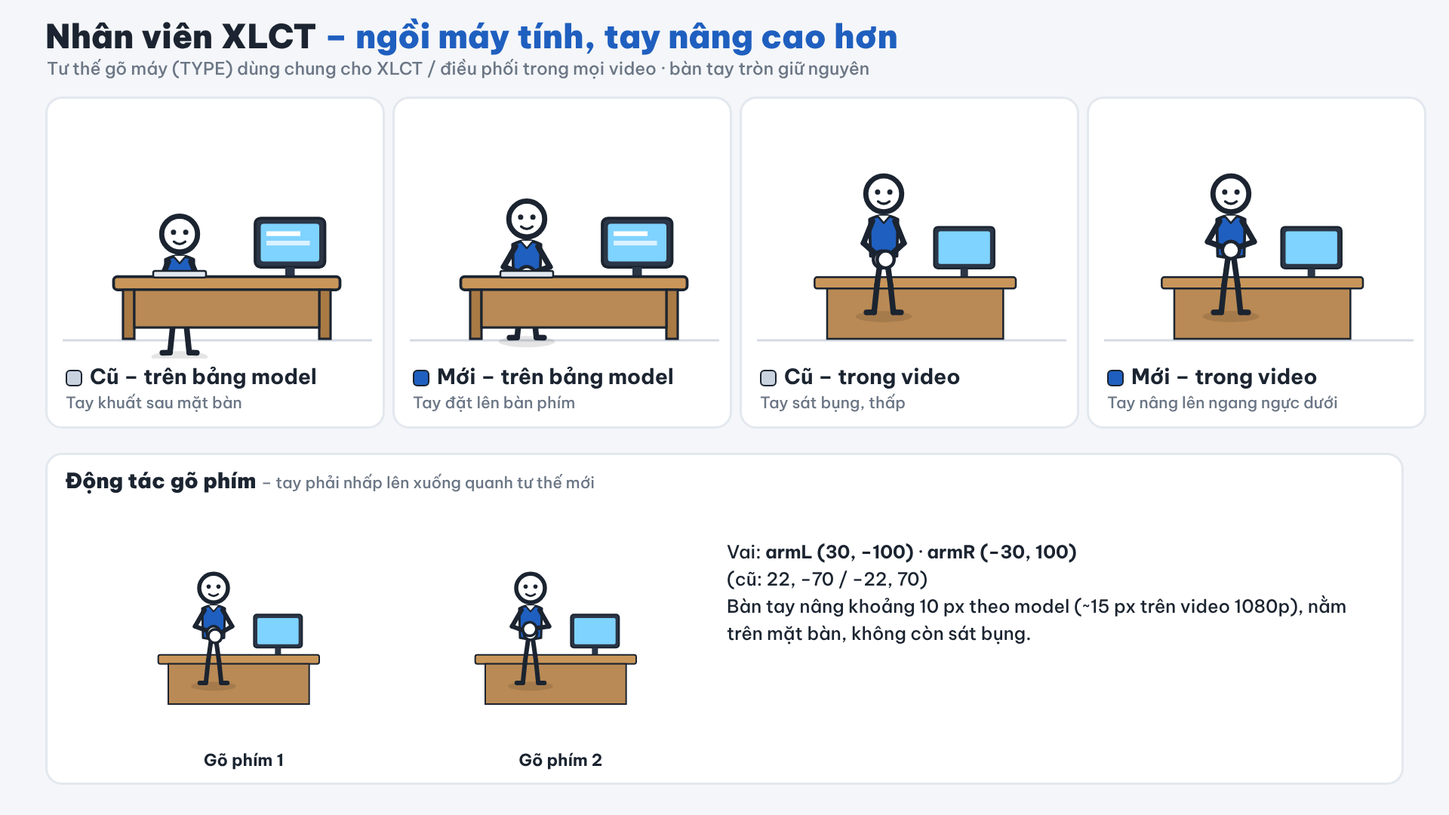
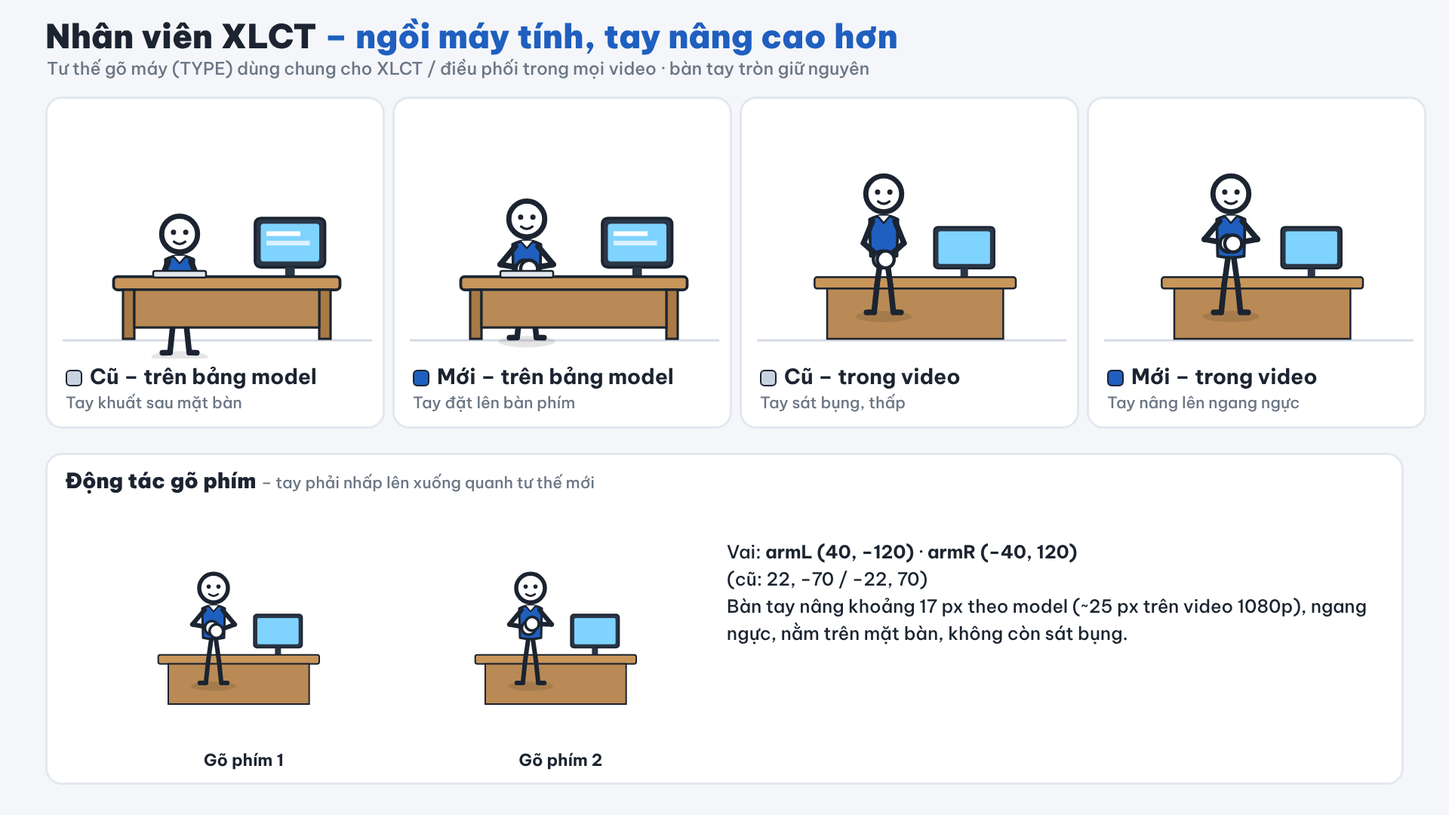
XLCT model: typing pose raised to chest height (option 3)
Claude-Session: https://claude.ai/code/session_0119jQ4nNmZ4Horfj6a4CaBv

diff --git a/design/model-xlct.html b/design/model-xlct.html
@@ -35,7 +35,7 @@ h1 span{color:#1F5FBF}
   <div class="cell" style="left:520px;top:128px;width:450px;height:440px">
     <svg width="450" height="344" viewBox="0 0 450 344">
       <line x1="20" y1="320" x2="430" y2="320" stroke="#D5DBE4" stroke-width="3"/>
-      <g transform="translate(175,318) scale(1.25)"><g transform="translate(0,0)"><g transform="scale(1.0)"><g id="n1-body"><ellipse cx="0" cy="3" rx="30" ry="6" fill="#000" opacity="0.10"/><g transform="translate(-3,-60)"><g id="n1-legL" transform="rotate(8)"><line x1="0" y1="0" x2="0" y2="30" stroke="#1B2430" stroke-width="6" stroke-linecap="round"/><g transform="translate(0,30)"><g id="n1-shinL" transform="rotate(-2)"><line x1="0" y1="0" x2="0" y2="29" stroke="#1B2430" stroke-width="6" stroke-linecap="round"/><line x1="0" y1="29" x2="-8" y2="30" stroke="#1B2430" stroke-width="6" stroke-linecap="round"/></g></g></g></g><g transform="translate(3,-60)"><g id="n1-legR" transform="rotate(-8)"><line x1="0" y1="0" x2="0" y2="30" stroke="#1B2430" stroke-width="6" stroke-linecap="round"/><g transform="translate(0,30)"><g id="n1-shinR" transform="rotate(2)"><line x1="0" y1="0" x2="0" y2="29" stroke="#1B2430" stroke-width="6" stroke-linecap="round"/><line x1="0" y1="29" x2="8" y2="30" stroke="#1B2430" stroke-width="6" stroke-linecap="round"/></g></g></g></g><path d="M-15,-100 Q0,-108 15,-100 L14,-61 Q0,-58 -14,-61 Z" fill="#1F5FBF" stroke="#1B2430" stroke-width="3" stroke-linejoin="round"/><path d="M-7,-104 L0,-96 L7,-104" fill="#fff" stroke="#1B2430" stroke-width="2" stroke-linejoin="round"/><g transform="translate(-12,-98)"><g id="n1-armL" transform="rotate(30)"><line x1="0" y1="0" x2="0" y2="25" stroke="#1B2430" stroke-width="6" stroke-linecap="round"/><g transform="translate(0,25)"><g id="n1-foreL" transform="rotate(-100)"><line x1="0" y1="0" x2="0" y2="23" stroke="#1B2430" stroke-width="6" stroke-linecap="round"/><circle cx="0" cy="26" r="9" fill="#fff" stroke="#1B2430" stroke-width="3.5"/></g></g></g></g><g transform="translate(12,-98)"><g id="n1-armR" transform="rotate(-30)"><line x1="0" y1="0" x2="0" y2="25" stroke="#1B2430" stroke-width="6" stroke-linecap="round"/><g transform="translate(0,25)"><g id="n1-foreR" transform="rotate(100)"><line x1="0" y1="0" x2="0" y2="23" stroke="#1B2430" stroke-width="6" stroke-linecap="round"/><circle cx="0" cy="26" r="9" fill="#fff" stroke="#1B2430" stroke-width="3.5"/></g></g></g></g><circle cx="0" cy="-127" r="19" fill="#fff" stroke="#1B2430" stroke-width="5.5"/><circle cx="-6.5" cy="-129" r="2.8" fill="#1B2430"/><circle cx="6.5" cy="-129" r="2.8" fill="#1B2430"/><path d="M-6,-119 Q0,-114 6,-119" fill="none" stroke="#1B2430" stroke-width="2.6" stroke-linecap="round"/></g></g></g><rect x="80" y="-128" width="74" height="52" rx="6" fill="#2B3646" stroke="#1B2430" stroke-width="3"/><rect x="86" y="-122" width="62" height="40" rx="3" fill="#7FD3FF"/><rect x="92" y="-114" width="36" height="5" fill="#fff"/><rect x="92" y="-104" width="46" height="5" fill="#fff" opacity="0.7"/><rect x="112" y="-76" width="10" height="12" fill="#2B3646"/><rect x="-70" y="-66" width="240" height="14" rx="4" fill="#C9965A" stroke="#1B2430" stroke-width="3"/><rect x="-60" y="-52" width="12" height="52" fill="#A97A44" stroke="#1B2430" stroke-width="2.5"/><rect x="148" y="-52" width="12" height="52" fill="#A97A44" stroke="#1B2430" stroke-width="2.5"/><rect x="-28" y="-72" width="56" height="7" rx="2" fill="#E3E8EF" stroke="#1B2430" stroke-width="2"/><rect x="-48" y="-52" width="196" height="40" fill="#B98A55" stroke="#1B2430" stroke-width="2.5"/></g>
+      <g transform="translate(175,318) scale(1.25)"><g transform="translate(0,0)"><g transform="scale(1.0)"><g id="n1-body"><ellipse cx="0" cy="3" rx="30" ry="6" fill="#000" opacity="0.10"/><g transform="translate(-3,-60)"><g id="n1-legL" transform="rotate(8)"><line x1="0" y1="0" x2="0" y2="30" stroke="#1B2430" stroke-width="6" stroke-linecap="round"/><g transform="translate(0,30)"><g id="n1-shinL" transform="rotate(-2)"><line x1="0" y1="0" x2="0" y2="29" stroke="#1B2430" stroke-width="6" stroke-linecap="round"/><line x1="0" y1="29" x2="-8" y2="30" stroke="#1B2430" stroke-width="6" stroke-linecap="round"/></g></g></g></g><g transform="translate(3,-60)"><g id="n1-legR" transform="rotate(-8)"><line x1="0" y1="0" x2="0" y2="30" stroke="#1B2430" stroke-width="6" stroke-linecap="round"/><g transform="translate(0,30)"><g id="n1-shinR" transform="rotate(2)"><line x1="0" y1="0" x2="0" y2="29" stroke="#1B2430" stroke-width="6" stroke-linecap="round"/><line x1="0" y1="29" x2="8" y2="30" stroke="#1B2430" stroke-width="6" stroke-linecap="round"/></g></g></g></g><path d="M-15,-100 Q0,-108 15,-100 L14,-61 Q0,-58 -14,-61 Z" fill="#1F5FBF" stroke="#1B2430" stroke-width="3" stroke-linejoin="round"/><path d="M-7,-104 L0,-96 L7,-104" fill="#fff" stroke="#1B2430" stroke-width="2" stroke-linejoin="round"/><g transform="translate(-12,-98)"><g id="n1-armL" transform="rotate(40)"><line x1="0" y1="0" x2="0" y2="25" stroke="#1B2430" stroke-width="6" stroke-linecap="round"/><g transform="translate(0,25)"><g id="n1-foreL" transform="rotate(-120)"><line x1="0" y1="0" x2="0" y2="23" stroke="#1B2430" stroke-width="6" stroke-linecap="round"/><circle cx="0" cy="26" r="9" fill="#fff" stroke="#1B2430" stroke-width="3.5"/></g></g></g></g><g transform="translate(12,-98)"><g id="n1-armR" transform="rotate(-40)"><line x1="0" y1="0" x2="0" y2="25" stroke="#1B2430" stroke-width="6" stroke-linecap="round"/><g transform="translate(0,25)"><g id="n1-foreR" transform="rotate(120)"><line x1="0" y1="0" x2="0" y2="23" stroke="#1B2430" stroke-width="6" stroke-linecap="round"/><circle cx="0" cy="26" r="9" fill="#fff" stroke="#1B2430" stroke-width="3.5"/></g></g></g></g><circle cx="0" cy="-127" r="19" fill="#fff" stroke="#1B2430" stroke-width="5.5"/><circle cx="-6.5" cy="-129" r="2.8" fill="#1B2430"/><circle cx="6.5" cy="-129" r="2.8" fill="#1B2430"/><path d="M-6,-119 Q0,-114 6,-119" fill="none" stroke="#1B2430" stroke-width="2.6" stroke-linecap="round"/></g></g></g><rect x="80" y="-128" width="74" height="52" rx="6" fill="#2B3646" stroke="#1B2430" stroke-width="3"/><rect x="86" y="-122" width="62" height="40" rx="3" fill="#7FD3FF"/><rect x="92" y="-114" width="36" height="5" fill="#fff"/><rect x="92" y="-104" width="46" height="5" fill="#fff" opacity="0.7"/><rect x="112" y="-76" width="10" height="12" fill="#2B3646"/><rect x="-70" y="-66" width="240" height="14" rx="4" fill="#C9965A" stroke="#1B2430" stroke-width="3"/><rect x="-60" y="-52" width="12" height="52" fill="#A97A44" stroke="#1B2430" stroke-width="2.5"/><rect x="148" y="-52" width="12" height="52" fill="#A97A44" stroke="#1B2430" stroke-width="2.5"/><rect x="-28" y="-72" width="56" height="7" rx="2" fill="#E3E8EF" stroke="#1B2430" stroke-width="2"/><rect x="-48" y="-52" width="196" height="40" fill="#B98A55" stroke="#1B2430" stroke-width="2.5"/></g>
     </svg>
     <div class="cap"><span class="chip" style="background:#1F5FBF"></span><b>Mới – trên bảng model</b><div class="note">Tay đặt lên bàn phím</div></div>
   </div>
@@ -49,10 +49,10 @@ h1 span{color:#1F5FBF}
   <div class="cell" style="left:1440px;top:128px;width:450px;height:440px">
     <svg width="450" height="344" viewBox="0 0 450 344">
       <line x1="20" y1="320" x2="430" y2="320" stroke="#D5DBE4" stroke-width="3"/>
-      <g transform="translate(188,318) scale(1.25)"><g transform="scale(0.6667)"><g transform="translate(0,0)"><rect x="80" y="-178" width="96" height="66" rx="6" fill="#2B3646" stroke="#1B2430" stroke-width="3"/><rect x="87" y="-171" width="82" height="52" rx="3" fill="#7FD3FF"/><rect x="122" y="-112" width="12" height="16" fill="#2B3646"/><rect x="-110" y="-98" width="320" height="18" rx="4" fill="#C9965A" stroke="#1B2430" stroke-width="3"/><rect x="-90" y="-80" width="280" height="80" fill="#B98A55" stroke="#1B2430" stroke-width="3"/></g><g transform="translate(0,-40)"><g transform="scale(1.5)"><g id="n2-body"><ellipse cx="0" cy="3" rx="30" ry="6" fill="#000" opacity="0.10"/><g transform="translate(-3,-60)"><g id="n2-legL" transform="rotate(8)"><line x1="0" y1="0" x2="0" y2="30" stroke="#1B2430" stroke-width="6" stroke-linecap="round"/><g transform="translate(0,30)"><g id="n2-shinL" transform="rotate(-2)"><line x1="0" y1="0" x2="0" y2="29" stroke="#1B2430" stroke-width="6" stroke-linecap="round"/><line x1="0" y1="29" x2="-8" y2="30" stroke="#1B2430" stroke-width="6" stroke-linecap="round"/></g></g></g></g><g transform="translate(3,-60)"><g id="n2-legR" transform="rotate(-8)"><line x1="0" y1="0" x2="0" y2="30" stroke="#1B2430" stroke-width="6" stroke-linecap="round"/><g transform="translate(0,30)"><g id="n2-shinR" transform="rotate(2)"><line x1="0" y1="0" x2="0" y2="29" stroke="#1B2430" stroke-width="6" stroke-linecap="round"/><line x1="0" y1="29" x2="8" y2="30" stroke="#1B2430" stroke-width="6" stroke-linecap="round"/></g></g></g></g><path d="M-15,-100 Q0,-108 15,-100 L14,-61 Q0,-58 -14,-61 Z" fill="#1F5FBF" stroke="#1B2430" stroke-width="3" stroke-linejoin="round"/><path d="M-7,-104 L0,-96 L7,-104" fill="#fff" stroke="#1B2430" stroke-width="2" stroke-linejoin="round"/><g transform="translate(-12,-98)"><g id="n2-armL" transform="rotate(30)"><line x1="0" y1="0" x2="0" y2="25" stroke="#1B2430" stroke-width="6" stroke-linecap="round"/><g transform="translate(0,25)"><g id="n2-foreL" transform="rotate(-100)"><line x1="0" y1="0" x2="0" y2="23" stroke="#1B2430" stroke-width="6" stroke-linecap="round"/><circle cx="0" cy="26" r="9" fill="#fff" stroke="#1B2430" stroke-width="3.5"/></g></g></g></g><g transform="translate(12,-98)"><g id="n2-armR" transform="rotate(-30)"><line x1="0" y1="0" x2="0" y2="25" stroke="#1B2430" stroke-width="6" stroke-linecap="round"/><g transform="translate(0,25)"><g id="n2-foreR" transform="rotate(100)"><line x1="0" y1="0" x2="0" y2="23" stroke="#1B2430" stroke-width="6" stroke-linecap="round"/><circle cx="0" cy="26" r="9" fill="#fff" stroke="#1B2430" stroke-width="3.5"/></g></g></g></g><circle cx="0" cy="-127" r="19" fill="#fff" stroke="#1B2430" stroke-width="5.5"/><circle cx="-6.5" cy="-129" r="2.8" fill="#1B2430"/><circle cx="6.5" cy="-129" r="2.8" fill="#1B2430"/><path d="M-6,-119 Q0,-114 6,-119" fill="none" stroke="#1B2430" stroke-width="2.6" stroke-linecap="round"/></g></g></g></g></g>
+      <g transform="translate(188,318) scale(1.25)"><g transform="scale(0.6667)"><g transform="translate(0,0)"><rect x="80" y="-178" width="96" height="66" rx="6" fill="#2B3646" stroke="#1B2430" stroke-width="3"/><rect x="87" y="-171" width="82" height="52" rx="3" fill="#7FD3FF"/><rect x="122" y="-112" width="12" height="16" fill="#2B3646"/><rect x="-110" y="-98" width="320" height="18" rx="4" fill="#C9965A" stroke="#1B2430" stroke-width="3"/><rect x="-90" y="-80" width="280" height="80" fill="#B98A55" stroke="#1B2430" stroke-width="3"/></g><g transform="translate(0,-40)"><g transform="scale(1.5)"><g id="n2-body"><ellipse cx="0" cy="3" rx="30" ry="6" fill="#000" opacity="0.10"/><g transform="translate(-3,-60)"><g id="n2-legL" transform="rotate(8)"><line x1="0" y1="0" x2="0" y2="30" stroke="#1B2430" stroke-width="6" stroke-linecap="round"/><g transform="translate(0,30)"><g id="n2-shinL" transform="rotate(-2)"><line x1="0" y1="0" x2="0" y2="29" stroke="#1B2430" stroke-width="6" stroke-linecap="round"/><line x1="0" y1="29" x2="-8" y2="30" stroke="#1B2430" stroke-width="6" stroke-linecap="round"/></g></g></g></g><g transform="translate(3,-60)"><g id="n2-legR" transform="rotate(-8)"><line x1="0" y1="0" x2="0" y2="30" stroke="#1B2430" stroke-width="6" stroke-linecap="round"/><g transform="translate(0,30)"><g id="n2-shinR" transform="rotate(2)"><line x1="0" y1="0" x2="0" y2="29" stroke="#1B2430" stroke-width="6" stroke-linecap="round"/><line x1="0" y1="29" x2="8" y2="30" stroke="#1B2430" stroke-width="6" stroke-linecap="round"/></g></g></g></g><path d="M-15,-100 Q0,-108 15,-100 L14,-61 Q0,-58 -14,-61 Z" fill="#1F5FBF" stroke="#1B2430" stroke-width="3" stroke-linejoin="round"/><path d="M-7,-104 L0,-96 L7,-104" fill="#fff" stroke="#1B2430" stroke-width="2" stroke-linejoin="round"/><g transform="translate(-12,-98)"><g id="n2-armL" transform="rotate(40)"><line x1="0" y1="0" x2="0" y2="25" stroke="#1B2430" stroke-width="6" stroke-linecap="round"/><g transform="translate(0,25)"><g id="n2-foreL" transform="rotate(-120)"><line x1="0" y1="0" x2="0" y2="23" stroke="#1B2430" stroke-width="6" stroke-linecap="round"/><circle cx="0" cy="26" r="9" fill="#fff" stroke="#1B2430" stroke-width="3.5"/></g></g></g></g><g transform="translate(12,-98)"><g id="n2-armR" transform="rotate(-40)"><line x1="0" y1="0" x2="0" y2="25" stroke="#1B2430" stroke-width="6" stroke-linecap="round"/><g transform="translate(0,25)"><g id="n2-foreR" transform="rotate(120)"><line x1="0" y1="0" x2="0" y2="23" stroke="#1B2430" stroke-width="6" stroke-linecap="round"/><circle cx="0" cy="26" r="9" fill="#fff" stroke="#1B2430" stroke-width="3.5"/></g></g></g></g><circle cx="0" cy="-127" r="19" fill="#fff" stroke="#1B2430" stroke-width="5.5"/><circle cx="-6.5" cy="-129" r="2.8" fill="#1B2430"/><circle cx="6.5" cy="-129" r="2.8" fill="#1B2430"/><path d="M-6,-119 Q0,-114 6,-119" fill="none" stroke="#1B2430" stroke-width="2.6" stroke-linecap="round"/></g></g></g></g></g>
     </svg>
-    <div class="cap"><span class="chip" style="background:#1F5FBF"></span><b>Mới – trong video</b><div class="note">Tay nâng lên ngang ngực dưới</div></div>
+    <div class="cap"><span class="chip" style="background:#1F5FBF"></span><b>Mới – trong video</b><div class="note">Tay nâng lên ngang ngực</div></div>
   </div>
-<div class="strip"><h2>Động tác gõ phím <small>– tay phải nhấp lên xuống quanh tư thế mới</small></h2><div class="row"><div class="lu" style="left:40px"><svg width="400" height="300" viewBox="-160 -230 400 260"><g transform="scale(0.6667)"><g transform="translate(0,0)"><rect x="80" y="-178" width="96" height="66" rx="6" fill="#2B3646" stroke="#1B2430" stroke-width="3"/><rect x="87" y="-171" width="82" height="52" rx="3" fill="#7FD3FF"/><rect x="122" y="-112" width="12" height="16" fill="#2B3646"/><rect x="-110" y="-98" width="320" height="18" rx="4" fill="#C9965A" stroke="#1B2430" stroke-width="3"/><rect x="-90" y="-80" width="280" height="80" fill="#B98A55" stroke="#1B2430" stroke-width="3"/></g><g transform="translate(0,-40)"><g transform="scale(1.5)"><g id="t0-body"><ellipse cx="0" cy="3" rx="30" ry="6" fill="#000" opacity="0.10"/><g transform="translate(-3,-60)"><g id="t0-legL" transform="rotate(8)"><line x1="0" y1="0" x2="0" y2="30" stroke="#1B2430" stroke-width="6" stroke-linecap="round"/><g transform="translate(0,30)"><g id="t0-shinL" transform="rotate(-2)"><line x1="0" y1="0" x2="0" y2="29" stroke="#1B2430" stroke-width="6" stroke-linecap="round"/><line x1="0" y1="29" x2="-8" y2="30" stroke="#1B2430" stroke-width="6" stroke-linecap="round"/></g></g></g></g><g transform="translate(3,-60)"><g id="t0-legR" transform="rotate(-8)"><line x1="0" y1="0" x2="0" y2="30" stroke="#1B2430" stroke-width="6" stroke-linecap="round"/><g transform="translate(0,30)"><g id="t0-shinR" transform="rotate(2)"><line x1="0" y1="0" x2="0" y2="29" stroke="#1B2430" stroke-width="6" stroke-linecap="round"/><line x1="0" y1="29" x2="8" y2="30" stroke="#1B2430" stroke-width="6" stroke-linecap="round"/></g></g></g></g><path d="M-15,-100 Q0,-108 15,-100 L14,-61 Q0,-58 -14,-61 Z" fill="#1F5FBF" stroke="#1B2430" stroke-width="3" stroke-linejoin="round"/><path d="M-7,-104 L0,-96 L7,-104" fill="#fff" stroke="#1B2430" stroke-width="2" stroke-linejoin="round"/><g transform="translate(-12,-98)"><g id="t0-armL" transform="rotate(30)"><line x1="0" y1="0" x2="0" y2="25" stroke="#1B2430" stroke-width="6" stroke-linecap="round"/><g transform="translate(0,25)"><g id="t0-foreL" transform="rotate(-100)"><line x1="0" y1="0" x2="0" y2="23" stroke="#1B2430" stroke-width="6" stroke-linecap="round"/><circle cx="0" cy="26" r="9" fill="#fff" stroke="#1B2430" stroke-width="3.5"/></g></g></g></g><g transform="translate(12,-98)"><g id="t0-armR" transform="rotate(-30)"><line x1="0" y1="0" x2="0" y2="25" stroke="#1B2430" stroke-width="6" stroke-linecap="round"/><g transform="translate(0,25)"><g id="t0-foreR" transform="rotate(90)"><line x1="0" y1="0" x2="0" y2="23" stroke="#1B2430" stroke-width="6" stroke-linecap="round"/><circle cx="0" cy="26" r="9" fill="#fff" stroke="#1B2430" stroke-width="3.5"/></g></g></g></g><circle cx="0" cy="-127" r="19" fill="#fff" stroke="#1B2430" stroke-width="5.5"/><circle cx="-6.5" cy="-129" r="2.8" fill="#1B2430"/><circle cx="6.5" cy="-129" r="2.8" fill="#1B2430"/><path d="M-6,-119 Q0,-114 6,-119" fill="none" stroke="#1B2430" stroke-width="2.6" stroke-linecap="round"/></g></g></g></g></svg><div class="ln">Gõ phím 1</div></div><div class="lu" style="left:460px"><svg width="400" height="300" viewBox="-160 -230 400 260"><g transform="scale(0.6667)"><g transform="translate(0,0)"><rect x="80" y="-178" width="96" height="66" rx="6" fill="#2B3646" stroke="#1B2430" stroke-width="3"/><rect x="87" y="-171" width="82" height="52" rx="3" fill="#7FD3FF"/><rect x="122" y="-112" width="12" height="16" fill="#2B3646"/><rect x="-110" y="-98" width="320" height="18" rx="4" fill="#C9965A" stroke="#1B2430" stroke-width="3"/><rect x="-90" y="-80" width="280" height="80" fill="#B98A55" stroke="#1B2430" stroke-width="3"/></g><g transform="translate(0,-40)"><g transform="scale(1.5)"><g id="t1-body"><ellipse cx="0" cy="3" rx="30" ry="6" fill="#000" opacity="0.10"/><g transform="translate(-3,-60)"><g id="t1-legL" transform="rotate(8)"><line x1="0" y1="0" x2="0" y2="30" stroke="#1B2430" stroke-width="6" stroke-linecap="round"/><g transform="translate(0,30)"><g id="t1-shinL" transform="rotate(-2)"><line x1="0" y1="0" x2="0" y2="29" stroke="#1B2430" stroke-width="6" stroke-linecap="round"/><line x1="0" y1="29" x2="-8" y2="30" stroke="#1B2430" stroke-width="6" stroke-linecap="round"/></g></g></g></g><g transform="translate(3,-60)"><g id="t1-legR" transform="rotate(-8)"><line x1="0" y1="0" x2="0" y2="30" stroke="#1B2430" stroke-width="6" stroke-linecap="round"/><g transform="translate(0,30)"><g id="t1-shinR" transform="rotate(2)"><line x1="0" y1="0" x2="0" y2="29" stroke="#1B2430" stroke-width="6" stroke-linecap="round"/><line x1="0" y1="29" x2="8" y2="30" stroke="#1B2430" stroke-width="6" stroke-linecap="round"/></g></g></g></g><path d="M-15,-100 Q0,-108 15,-100 L14,-61 Q0,-58 -14,-61 Z" fill="#1F5FBF" stroke="#1B2430" stroke-width="3" stroke-linejoin="round"/><path d="M-7,-104 L0,-96 L7,-104" fill="#fff" stroke="#1B2430" stroke-width="2" stroke-linejoin="round"/><g transform="translate(-12,-98)"><g id="t1-armL" transform="rotate(30)"><line x1="0" y1="0" x2="0" y2="25" stroke="#1B2430" stroke-width="6" stroke-linecap="round"/><g transform="translate(0,25)"><g id="t1-foreL" transform="rotate(-100)"><line x1="0" y1="0" x2="0" y2="23" stroke="#1B2430" stroke-width="6" stroke-linecap="round"/><circle cx="0" cy="26" r="9" fill="#fff" stroke="#1B2430" stroke-width="3.5"/></g></g></g></g><g transform="translate(12,-98)"><g id="t1-armR" transform="rotate(-30)"><line x1="0" y1="0" x2="0" y2="25" stroke="#1B2430" stroke-width="6" stroke-linecap="round"/><g transform="translate(0,25)"><g id="t1-foreR" transform="rotate(112)"><line x1="0" y1="0" x2="0" y2="23" stroke="#1B2430" stroke-width="6" stroke-linecap="round"/><circle cx="0" cy="26" r="9" fill="#fff" stroke="#1B2430" stroke-width="3.5"/></g></g></g></g><circle cx="0" cy="-127" r="19" fill="#fff" stroke="#1B2430" stroke-width="5.5"/><circle cx="-6.5" cy="-129" r="2.8" fill="#1B2430"/><circle cx="6.5" cy="-129" r="2.8" fill="#1B2430"/><path d="M-6,-119 Q0,-114 6,-119" fill="none" stroke="#1B2430" stroke-width="2.6" stroke-linecap="round"/></g></g></g></g></svg><div class="ln">Gõ phím 2</div></div></div>
-<div class="note2">Vai: <b>armL (30, −100)</b> · <b>armR (−30, 100)</b><br>(cũ: 22, −70 / −22, 70)<br>Bàn tay nâng khoảng 10 px theo model (~15 px trên video 1080p), nằm trên mặt bàn, không còn sát bụng.</div></div>
+<div class="strip"><h2>Động tác gõ phím <small>– tay phải nhấp lên xuống quanh tư thế mới</small></h2><div class="row"><div class="lu" style="left:40px"><svg width="400" height="300" viewBox="-160 -230 400 260"><g transform="scale(0.6667)"><g transform="translate(0,0)"><rect x="80" y="-178" width="96" height="66" rx="6" fill="#2B3646" stroke="#1B2430" stroke-width="3"/><rect x="87" y="-171" width="82" height="52" rx="3" fill="#7FD3FF"/><rect x="122" y="-112" width="12" height="16" fill="#2B3646"/><rect x="-110" y="-98" width="320" height="18" rx="4" fill="#C9965A" stroke="#1B2430" stroke-width="3"/><rect x="-90" y="-80" width="280" height="80" fill="#B98A55" stroke="#1B2430" stroke-width="3"/></g><g transform="translate(0,-40)"><g transform="scale(1.5)"><g id="t0-body"><ellipse cx="0" cy="3" rx="30" ry="6" fill="#000" opacity="0.10"/><g transform="translate(-3,-60)"><g id="t0-legL" transform="rotate(8)"><line x1="0" y1="0" x2="0" y2="30" stroke="#1B2430" stroke-width="6" stroke-linecap="round"/><g transform="translate(0,30)"><g id="t0-shinL" transform="rotate(-2)"><line x1="0" y1="0" x2="0" y2="29" stroke="#1B2430" stroke-width="6" stroke-linecap="round"/><line x1="0" y1="29" x2="-8" y2="30" stroke="#1B2430" stroke-width="6" stroke-linecap="round"/></g></g></g></g><g transform="translate(3,-60)"><g id="t0-legR" transform="rotate(-8)"><line x1="0" y1="0" x2="0" y2="30" stroke="#1B2430" stroke-width="6" stroke-linecap="round"/><g transform="translate(0,30)"><g id="t0-shinR" transform="rotate(2)"><line x1="0" y1="0" x2="0" y2="29" stroke="#1B2430" stroke-width="6" stroke-linecap="round"/><line x1="0" y1="29" x2="8" y2="30" stroke="#1B2430" stroke-width="6" stroke-linecap="round"/></g></g></g></g><path d="M-15,-100 Q0,-108 15,-100 L14,-61 Q0,-58 -14,-61 Z" fill="#1F5FBF" stroke="#1B2430" stroke-width="3" stroke-linejoin="round"/><path d="M-7,-104 L0,-96 L7,-104" fill="#fff" stroke="#1B2430" stroke-width="2" stroke-linejoin="round"/><g transform="translate(-12,-98)"><g id="t0-armL" transform="rotate(40)"><line x1="0" y1="0" x2="0" y2="25" stroke="#1B2430" stroke-width="6" stroke-linecap="round"/><g transform="translate(0,25)"><g id="t0-foreL" transform="rotate(-120)"><line x1="0" y1="0" x2="0" y2="23" stroke="#1B2430" stroke-width="6" stroke-linecap="round"/><circle cx="0" cy="26" r="9" fill="#fff" stroke="#1B2430" stroke-width="3.5"/></g></g></g></g><g transform="translate(12,-98)"><g id="t0-armR" transform="rotate(-40)"><line x1="0" y1="0" x2="0" y2="25" stroke="#1B2430" stroke-width="6" stroke-linecap="round"/><g transform="translate(0,25)"><g id="t0-foreR" transform="rotate(110)"><line x1="0" y1="0" x2="0" y2="23" stroke="#1B2430" stroke-width="6" stroke-linecap="round"/><circle cx="0" cy="26" r="9" fill="#fff" stroke="#1B2430" stroke-width="3.5"/></g></g></g></g><circle cx="0" cy="-127" r="19" fill="#fff" stroke="#1B2430" stroke-width="5.5"/><circle cx="-6.5" cy="-129" r="2.8" fill="#1B2430"/><circle cx="6.5" cy="-129" r="2.8" fill="#1B2430"/><path d="M-6,-119 Q0,-114 6,-119" fill="none" stroke="#1B2430" stroke-width="2.6" stroke-linecap="round"/></g></g></g></g></svg><div class="ln">Gõ phím 1</div></div><div class="lu" style="left:460px"><svg width="400" height="300" viewBox="-160 -230 400 260"><g transform="scale(0.6667)"><g transform="translate(0,0)"><rect x="80" y="-178" width="96" height="66" rx="6" fill="#2B3646" stroke="#1B2430" stroke-width="3"/><rect x="87" y="-171" width="82" height="52" rx="3" fill="#7FD3FF"/><rect x="122" y="-112" width="12" height="16" fill="#2B3646"/><rect x="-110" y="-98" width="320" height="18" rx="4" fill="#C9965A" stroke="#1B2430" stroke-width="3"/><rect x="-90" y="-80" width="280" height="80" fill="#B98A55" stroke="#1B2430" stroke-width="3"/></g><g transform="translate(0,-40)"><g transform="scale(1.5)"><g id="t1-body"><ellipse cx="0" cy="3" rx="30" ry="6" fill="#000" opacity="0.10"/><g transform="translate(-3,-60)"><g id="t1-legL" transform="rotate(8)"><line x1="0" y1="0" x2="0" y2="30" stroke="#1B2430" stroke-width="6" stroke-linecap="round"/><g transform="translate(0,30)"><g id="t1-shinL" transform="rotate(-2)"><line x1="0" y1="0" x2="0" y2="29" stroke="#1B2430" stroke-width="6" stroke-linecap="round"/><line x1="0" y1="29" x2="-8" y2="30" stroke="#1B2430" stroke-width="6" stroke-linecap="round"/></g></g></g></g><g transform="translate(3,-60)"><g id="t1-legR" transform="rotate(-8)"><line x1="0" y1="0" x2="0" y2="30" stroke="#1B2430" stroke-width="6" stroke-linecap="round"/><g transform="translate(0,30)"><g id="t1-shinR" transform="rotate(2)"><line x1="0" y1="0" x2="0" y2="29" stroke="#1B2430" stroke-width="6" stroke-linecap="round"/><line x1="0" y1="29" x2="8" y2="30" stroke="#1B2430" stroke-width="6" stroke-linecap="round"/></g></g></g></g><path d="M-15,-100 Q0,-108 15,-100 L14,-61 Q0,-58 -14,-61 Z" fill="#1F5FBF" stroke="#1B2430" stroke-width="3" stroke-linejoin="round"/><path d="M-7,-104 L0,-96 L7,-104" fill="#fff" stroke="#1B2430" stroke-width="2" stroke-linejoin="round"/><g transform="translate(-12,-98)"><g id="t1-armL" transform="rotate(40)"><line x1="0" y1="0" x2="0" y2="25" stroke="#1B2430" stroke-width="6" stroke-linecap="round"/><g transform="translate(0,25)"><g id="t1-foreL" transform="rotate(-120)"><line x1="0" y1="0" x2="0" y2="23" stroke="#1B2430" stroke-width="6" stroke-linecap="round"/><circle cx="0" cy="26" r="9" fill="#fff" stroke="#1B2430" stroke-width="3.5"/></g></g></g></g><g transform="translate(12,-98)"><g id="t1-armR" transform="rotate(-40)"><line x1="0" y1="0" x2="0" y2="25" stroke="#1B2430" stroke-width="6" stroke-linecap="round"/><g transform="translate(0,25)"><g id="t1-foreR" transform="rotate(132)"><line x1="0" y1="0" x2="0" y2="23" stroke="#1B2430" stroke-width="6" stroke-linecap="round"/><circle cx="0" cy="26" r="9" fill="#fff" stroke="#1B2430" stroke-width="3.5"/></g></g></g></g><circle cx="0" cy="-127" r="19" fill="#fff" stroke="#1B2430" stroke-width="5.5"/><circle cx="-6.5" cy="-129" r="2.8" fill="#1B2430"/><circle cx="6.5" cy="-129" r="2.8" fill="#1B2430"/><path d="M-6,-119 Q0,-114 6,-119" fill="none" stroke="#1B2430" stroke-width="2.6" stroke-linecap="round"/></g></g></g></g></svg><div class="ln">Gõ phím 2</div></div></div>
+<div class="note2">Vai: <b>armL (40, −120)</b> · <b>armR (−40, 120)</b><br>(cũ: 22, −70 / −22, 70)<br>Bàn tay nâng khoảng 17 px theo model (~25 px trên video 1080p), ngang ngực, nằm trên mặt bàn, không còn sát bụng.</div></div>
 </body></html>

diff --git a/design/model-quan-ly.html b/design/model-quan-ly.html
@@ -41,7 +41,7 @@ h1 span{color:#16478F}
   <div class="cell" style="left:980px;top:128px;width:450px;height:440px">
     <svg width="450" height="344" viewBox="0 0 450 344">
       <line x1="20" y1="320" x2="430" y2="320" stroke="#D5DBE4" stroke-width="3"/>
-      <g transform="translate(175,318) scale(1.25)"><g transform="scale(1.0)"><g id="q3-body"><ellipse cx="0" cy="3" rx="30" ry="6" fill="#000" opacity="0.10"/><g transform="translate(-3,-60)"><g id="q3-legL" transform="rotate(8)"><line x1="0" y1="0" x2="0" y2="30" stroke="#1B2430" stroke-width="6" stroke-linecap="round"/><g transform="translate(0,30)"><g id="q3-shinL" transform="rotate(-2)"><line x1="0" y1="0" x2="0" y2="29" stroke="#1B2430" stroke-width="6" stroke-linecap="round"/><line x1="0" y1="29" x2="-8" y2="30" stroke="#1B2430" stroke-width="6" stroke-linecap="round"/></g></g></g></g><g transform="translate(3,-60)"><g id="q3-legR" transform="rotate(-8)"><line x1="0" y1="0" x2="0" y2="30" stroke="#1B2430" stroke-width="6" stroke-linecap="round"/><g transform="translate(0,30)"><g id="q3-shinR" transform="rotate(2)"><line x1="0" y1="0" x2="0" y2="29" stroke="#1B2430" stroke-width="6" stroke-linecap="round"/><line x1="0" y1="29" x2="8" y2="30" stroke="#1B2430" stroke-width="6" stroke-linecap="round"/></g></g></g></g><path d="M-15,-100 Q0,-108 15,-100 L14,-61 Q0,-58 -14,-61 Z" fill="#FFFFFF" stroke="#1B2430" stroke-width="3" stroke-linejoin="round"/><path d="M-7,-104 L0,-96 L7,-104" fill="#fff" stroke="#1B2430" stroke-width="2" stroke-linejoin="round"/><path d="M0,-102 L-4.5,-97 L-2.5,-74 L0,-69 L2.5,-74 L4.5,-97 Z" fill="#16478F" stroke="#1B2430" stroke-width="1.5"/><path d="M-8,-103 L-10,-86 M8,-103 L10,-86" stroke="#16478F" stroke-width="2.2" fill="none"/><rect x="-14" y="-87" width="9" height="12" rx="1.5" fill="#16478F" stroke="#1B2430" stroke-width="1.5"/><rect x="-12.3" y="-84" width="5.6" height="2.4" fill="#fff"/><g transform="translate(-12,-98)"><g id="q3-armL" transform="rotate(30)"><line x1="0" y1="0" x2="0" y2="25" stroke="#1B2430" stroke-width="6" stroke-linecap="round"/><g transform="translate(0,25)"><g id="q3-foreL" transform="rotate(-100)"><line x1="0" y1="0" x2="0" y2="23" stroke="#1B2430" stroke-width="6" stroke-linecap="round"/><circle cx="0" cy="26" r="9" fill="#fff" stroke="#1B2430" stroke-width="3.5"/></g></g></g></g><g transform="translate(12,-98)"><g id="q3-armR" transform="rotate(-30)"><line x1="0" y1="0" x2="0" y2="25" stroke="#1B2430" stroke-width="6" stroke-linecap="round"/><g transform="translate(0,25)"><g id="q3-foreR" transform="rotate(100)"><line x1="0" y1="0" x2="0" y2="23" stroke="#1B2430" stroke-width="6" stroke-linecap="round"/><circle cx="0" cy="26" r="9" fill="#fff" stroke="#1B2430" stroke-width="3.5"/></g></g></g></g><circle cx="0" cy="-127" r="19" fill="#fff" stroke="#1B2430" stroke-width="5.5"/><circle cx="-6.5" cy="-129" r="2.8" fill="#1B2430"/><circle cx="6.5" cy="-129" r="2.8" fill="#1B2430"/><path d="M-6,-119 Q0,-114 6,-119" fill="none" stroke="#1B2430" stroke-width="2.6" stroke-linecap="round"/><path d="M-19,-133 Q-19,-152 0,-153 Q19,-152 19,-133 Z" fill="#FFFFFF" stroke="#1B2430" stroke-width="3" stroke-linejoin="round"/><path d="M-2,-152 L-2,-134 M2,-152 L2,-134" stroke="#1B2430" stroke-width="1.5" opacity="0.35"/><line x1="-24" y1="-133" x2="24" y2="-133" stroke="#1B2430" stroke-width="5" stroke-linecap="round"/></g></g><rect x="80" y="-128" width="74" height="52" rx="6" fill="#2B3646" stroke="#1B2430" stroke-width="3"/><rect x="86" y="-122" width="62" height="40" rx="3" fill="#7FD3FF"/><rect x="92" y="-114" width="36" height="5" fill="#fff"/><rect x="92" y="-104" width="46" height="5" fill="#fff" opacity="0.7"/><rect x="112" y="-76" width="10" height="12" fill="#2B3646"/><rect x="-70" y="-66" width="240" height="14" rx="4" fill="#C9965A" stroke="#1B2430" stroke-width="3"/><rect x="-60" y="-52" width="12" height="52" fill="#A97A44" stroke="#1B2430" stroke-width="2.5"/><rect x="148" y="-52" width="12" height="52" fill="#A97A44" stroke="#1B2430" stroke-width="2.5"/><rect x="-28" y="-72" width="56" height="7" rx="2" fill="#E3E8EF" stroke="#1B2430" stroke-width="2"/><rect x="-48" y="-52" width="196" height="40" fill="#B98A55" stroke="#1B2430" stroke-width="2.5"/><rect x="86" y="-122" width="62" height="40" rx="3" fill="#fff"/><text x="117" y="-111" text-anchor="middle" font-family="'Be Vietnam Pro'" font-weight="900" font-size="8" fill="#1B2430">THIẾU / THỪA</text><rect x="92" y="-105" width="22" height="6" fill="#D93B3B"/><rect x="118" y="-105" width="24" height="6" fill="#E3E8EF"/><rect x="92" y="-96" width="22" height="6" fill="#F28C1E"/><rect x="118" y="-96" width="24" height="6" fill="#E3E8EF"/></g>
+      <g transform="translate(175,318) scale(1.25)"><g transform="scale(1.0)"><g id="q3-body"><ellipse cx="0" cy="3" rx="30" ry="6" fill="#000" opacity="0.10"/><g transform="translate(-3,-60)"><g id="q3-legL" transform="rotate(8)"><line x1="0" y1="0" x2="0" y2="30" stroke="#1B2430" stroke-width="6" stroke-linecap="round"/><g transform="translate(0,30)"><g id="q3-shinL" transform="rotate(-2)"><line x1="0" y1="0" x2="0" y2="29" stroke="#1B2430" stroke-width="6" stroke-linecap="round"/><line x1="0" y1="29" x2="-8" y2="30" stroke="#1B2430" stroke-width="6" stroke-linecap="round"/></g></g></g></g><g transform="translate(3,-60)"><g id="q3-legR" transform="rotate(-8)"><line x1="0" y1="0" x2="0" y2="30" stroke="#1B2430" stroke-width="6" stroke-linecap="round"/><g transform="translate(0,30)"><g id="q3-shinR" transform="rotate(2)"><line x1="0" y1="0" x2="0" y2="29" stroke="#1B2430" stroke-width="6" stroke-linecap="round"/><line x1="0" y1="29" x2="8" y2="30" stroke="#1B2430" stroke-width="6" stroke-linecap="round"/></g></g></g></g><path d="M-15,-100 Q0,-108 15,-100 L14,-61 Q0,-58 -14,-61 Z" fill="#FFFFFF" stroke="#1B2430" stroke-width="3" stroke-linejoin="round"/><path d="M-7,-104 L0,-96 L7,-104" fill="#fff" stroke="#1B2430" stroke-width="2" stroke-linejoin="round"/><path d="M0,-102 L-4.5,-97 L-2.5,-74 L0,-69 L2.5,-74 L4.5,-97 Z" fill="#16478F" stroke="#1B2430" stroke-width="1.5"/><path d="M-8,-103 L-10,-86 M8,-103 L10,-86" stroke="#16478F" stroke-width="2.2" fill="none"/><rect x="-14" y="-87" width="9" height="12" rx="1.5" fill="#16478F" stroke="#1B2430" stroke-width="1.5"/><rect x="-12.3" y="-84" width="5.6" height="2.4" fill="#fff"/><g transform="translate(-12,-98)"><g id="q3-armL" transform="rotate(40)"><line x1="0" y1="0" x2="0" y2="25" stroke="#1B2430" stroke-width="6" stroke-linecap="round"/><g transform="translate(0,25)"><g id="q3-foreL" transform="rotate(-120)"><line x1="0" y1="0" x2="0" y2="23" stroke="#1B2430" stroke-width="6" stroke-linecap="round"/><circle cx="0" cy="26" r="9" fill="#fff" stroke="#1B2430" stroke-width="3.5"/></g></g></g></g><g transform="translate(12,-98)"><g id="q3-armR" transform="rotate(-40)"><line x1="0" y1="0" x2="0" y2="25" stroke="#1B2430" stroke-width="6" stroke-linecap="round"/><g transform="translate(0,25)"><g id="q3-foreR" transform="rotate(120)"><line x1="0" y1="0" x2="0" y2="23" stroke="#1B2430" stroke-width="6" stroke-linecap="round"/><circle cx="0" cy="26" r="9" fill="#fff" stroke="#1B2430" stroke-width="3.5"/></g></g></g></g><circle cx="0" cy="-127" r="19" fill="#fff" stroke="#1B2430" stroke-width="5.5"/><circle cx="-6.5" cy="-129" r="2.8" fill="#1B2430"/><circle cx="6.5" cy="-129" r="2.8" fill="#1B2430"/><path d="M-6,-119 Q0,-114 6,-119" fill="none" stroke="#1B2430" stroke-width="2.6" stroke-linecap="round"/><path d="M-19,-133 Q-19,-152 0,-153 Q19,-152 19,-133 Z" fill="#FFFFFF" stroke="#1B2430" stroke-width="3" stroke-linejoin="round"/><path d="M-2,-152 L-2,-134 M2,-152 L2,-134" stroke="#1B2430" stroke-width="1.5" opacity="0.35"/><line x1="-24" y1="-133" x2="24" y2="-133" stroke="#1B2430" stroke-width="5" stroke-linecap="round"/></g></g><rect x="80" y="-128" width="74" height="52" rx="6" fill="#2B3646" stroke="#1B2430" stroke-width="3"/><rect x="86" y="-122" width="62" height="40" rx="3" fill="#7FD3FF"/><rect x="92" y="-114" width="36" height="5" fill="#fff"/><rect x="92" y="-104" width="46" height="5" fill="#fff" opacity="0.7"/><rect x="112" y="-76" width="10" height="12" fill="#2B3646"/><rect x="-70" y="-66" width="240" height="14" rx="4" fill="#C9965A" stroke="#1B2430" stroke-width="3"/><rect x="-60" y="-52" width="12" height="52" fill="#A97A44" stroke="#1B2430" stroke-width="2.5"/><rect x="148" y="-52" width="12" height="52" fill="#A97A44" stroke="#1B2430" stroke-width="2.5"/><rect x="-28" y="-72" width="56" height="7" rx="2" fill="#E3E8EF" stroke="#1B2430" stroke-width="2"/><rect x="-48" y="-52" width="196" height="40" fill="#B98A55" stroke="#1B2430" stroke-width="2.5"/><rect x="86" y="-122" width="62" height="40" rx="3" fill="#fff"/><text x="117" y="-111" text-anchor="middle" font-family="'Be Vietnam Pro'" font-weight="900" font-size="8" fill="#1B2430">THIẾU / THỪA</text><rect x="92" y="-105" width="22" height="6" fill="#D93B3B"/><rect x="118" y="-105" width="24" height="6" fill="#E3E8EF"/><rect x="92" y="-96" width="22" height="6" fill="#F28C1E"/><rect x="118" y="-96" width="24" height="6" fill="#E3E8EF"/></g>
     </svg>
     <div class="cap"><span class="chip" style="background:#16478F"></span><b>Xem báo cáo trên WMS</b><div class="note">Bước 3 – Xử lý chênh lệch (04K.2)</div></div>
   </div>

diff --git a/design/model-sheet.html b/design/model-sheet.html
@@ -37,7 +37,7 @@ h1 span{color:#1F5FBF}
   <div class="cell" style="left:784px;top:128px;width:352px;height:430px">
     <svg width="352" height="334" viewBox="0 0 352 334">
       <line x1="20" y1="310" x2="332" y2="310" stroke="#D5DBE4" stroke-width="3"/>
-      <g transform="translate(136,308) scale(1.0)"><g transform="scale(1.0)"><g id="m3-body"><ellipse cx="0" cy="3" rx="30" ry="6" fill="#000" opacity="0.10"/><g transform="translate(-3,-60)"><g id="m3-legL" transform="rotate(8)"><line x1="0" y1="0" x2="0" y2="30" stroke="#1B2430" stroke-width="6" stroke-linecap="round"/><g transform="translate(0,30)"><g id="m3-shinL" transform="rotate(-2)"><line x1="0" y1="0" x2="0" y2="29" stroke="#1B2430" stroke-width="6" stroke-linecap="round"/><line x1="0" y1="29" x2="-8" y2="30" stroke="#1B2430" stroke-width="6" stroke-linecap="round"/></g></g></g></g><g transform="translate(3,-60)"><g id="m3-legR" transform="rotate(-8)"><line x1="0" y1="0" x2="0" y2="30" stroke="#1B2430" stroke-width="6" stroke-linecap="round"/><g transform="translate(0,30)"><g id="m3-shinR" transform="rotate(2)"><line x1="0" y1="0" x2="0" y2="29" stroke="#1B2430" stroke-width="6" stroke-linecap="round"/><line x1="0" y1="29" x2="8" y2="30" stroke="#1B2430" stroke-width="6" stroke-linecap="round"/></g></g></g></g><path d="M-15,-100 Q0,-108 15,-100 L14,-61 Q0,-58 -14,-61 Z" fill="#1F5FBF" stroke="#1B2430" stroke-width="3" stroke-linejoin="round"/><path d="M-7,-104 L0,-96 L7,-104" fill="#fff" stroke="#1B2430" stroke-width="2" stroke-linejoin="round"/><g transform="translate(-12,-98)"><g id="m3-armL" transform="rotate(30)"><line x1="0" y1="0" x2="0" y2="25" stroke="#1B2430" stroke-width="6" stroke-linecap="round"/><g transform="translate(0,25)"><g id="m3-foreL" transform="rotate(-100)"><line x1="0" y1="0" x2="0" y2="23" stroke="#1B2430" stroke-width="6" stroke-linecap="round"/><circle cx="0" cy="26" r="9" fill="#fff" stroke="#1B2430" stroke-width="3.5"/></g></g></g></g><g transform="translate(12,-98)"><g id="m3-armR" transform="rotate(-30)"><line x1="0" y1="0" x2="0" y2="25" stroke="#1B2430" stroke-width="6" stroke-linecap="round"/><g transform="translate(0,25)"><g id="m3-foreR" transform="rotate(100)"><line x1="0" y1="0" x2="0" y2="23" stroke="#1B2430" stroke-width="6" stroke-linecap="round"/><circle cx="0" cy="26" r="9" fill="#fff" stroke="#1B2430" stroke-width="3.5"/></g></g></g></g><circle cx="0" cy="-127" r="19" fill="#fff" stroke="#1B2430" stroke-width="5.5"/><circle cx="-6.5" cy="-129" r="2.8" fill="#1B2430"/><circle cx="6.5" cy="-129" r="2.8" fill="#1B2430"/><path d="M-6,-119 Q0,-114 6,-119" fill="none" stroke="#1B2430" stroke-width="2.6" stroke-linecap="round"/></g></g><rect x="80" y="-128" width="74" height="52" rx="6" fill="#2B3646" stroke="#1B2430" stroke-width="3"/><rect x="86" y="-122" width="62" height="40" rx="3" fill="#7FD3FF"/><rect x="92" y="-114" width="36" height="5" fill="#fff"/><rect x="92" y="-104" width="46" height="5" fill="#fff" opacity="0.7"/><rect x="112" y="-76" width="10" height="12" fill="#2B3646"/><rect x="-70" y="-66" width="240" height="14" rx="4" fill="#C9965A" stroke="#1B2430" stroke-width="3"/><rect x="-60" y="-52" width="12" height="52" fill="#A97A44" stroke="#1B2430" stroke-width="2.5"/><rect x="148" y="-52" width="12" height="52" fill="#A97A44" stroke="#1B2430" stroke-width="2.5"/><rect x="-28" y="-72" width="56" height="7" rx="2" fill="#E3E8EF" stroke="#1B2430" stroke-width="2"/><rect x="-48" y="-52" width="196" height="40" fill="#B98A55" stroke="#1B2430" stroke-width="2.5"/></g>
+      <g transform="translate(136,308) scale(1.0)"><g transform="scale(1.0)"><g id="m3-body"><ellipse cx="0" cy="3" rx="30" ry="6" fill="#000" opacity="0.10"/><g transform="translate(-3,-60)"><g id="m3-legL" transform="rotate(8)"><line x1="0" y1="0" x2="0" y2="30" stroke="#1B2430" stroke-width="6" stroke-linecap="round"/><g transform="translate(0,30)"><g id="m3-shinL" transform="rotate(-2)"><line x1="0" y1="0" x2="0" y2="29" stroke="#1B2430" stroke-width="6" stroke-linecap="round"/><line x1="0" y1="29" x2="-8" y2="30" stroke="#1B2430" stroke-width="6" stroke-linecap="round"/></g></g></g></g><g transform="translate(3,-60)"><g id="m3-legR" transform="rotate(-8)"><line x1="0" y1="0" x2="0" y2="30" stroke="#1B2430" stroke-width="6" stroke-linecap="round"/><g transform="translate(0,30)"><g id="m3-shinR" transform="rotate(2)"><line x1="0" y1="0" x2="0" y2="29" stroke="#1B2430" stroke-width="6" stroke-linecap="round"/><line x1="0" y1="29" x2="8" y2="30" stroke="#1B2430" stroke-width="6" stroke-linecap="round"/></g></g></g></g><path d="M-15,-100 Q0,-108 15,-100 L14,-61 Q0,-58 -14,-61 Z" fill="#1F5FBF" stroke="#1B2430" stroke-width="3" stroke-linejoin="round"/><path d="M-7,-104 L0,-96 L7,-104" fill="#fff" stroke="#1B2430" stroke-width="2" stroke-linejoin="round"/><g transform="translate(-12,-98)"><g id="m3-armL" transform="rotate(40)"><line x1="0" y1="0" x2="0" y2="25" stroke="#1B2430" stroke-width="6" stroke-linecap="round"/><g transform="translate(0,25)"><g id="m3-foreL" transform="rotate(-120)"><line x1="0" y1="0" x2="0" y2="23" stroke="#1B2430" stroke-width="6" stroke-linecap="round"/><circle cx="0" cy="26" r="9" fill="#fff" stroke="#1B2430" stroke-width="3.5"/></g></g></g></g><g transform="translate(12,-98)"><g id="m3-armR" transform="rotate(-40)"><line x1="0" y1="0" x2="0" y2="25" stroke="#1B2430" stroke-width="6" stroke-linecap="round"/><g transform="translate(0,25)"><g id="m3-foreR" transform="rotate(120)"><line x1="0" y1="0" x2="0" y2="23" stroke="#1B2430" stroke-width="6" stroke-linecap="round"/><circle cx="0" cy="26" r="9" fill="#fff" stroke="#1B2430" stroke-width="3.5"/></g></g></g></g><circle cx="0" cy="-127" r="19" fill="#fff" stroke="#1B2430" stroke-width="5.5"/><circle cx="-6.5" cy="-129" r="2.8" fill="#1B2430"/><circle cx="6.5" cy="-129" r="2.8" fill="#1B2430"/><path d="M-6,-119 Q0,-114 6,-119" fill="none" stroke="#1B2430" stroke-width="2.6" stroke-linecap="round"/></g></g><rect x="80" y="-128" width="74" height="52" rx="6" fill="#2B3646" stroke="#1B2430" stroke-width="3"/><rect x="86" y="-122" width="62" height="40" rx="3" fill="#7FD3FF"/><rect x="92" y="-114" width="36" height="5" fill="#fff"/><rect x="92" y="-104" width="46" height="5" fill="#fff" opacity="0.7"/><rect x="112" y="-76" width="10" height="12" fill="#2B3646"/><rect x="-70" y="-66" width="240" height="14" rx="4" fill="#C9965A" stroke="#1B2430" stroke-width="3"/><rect x="-60" y="-52" width="12" height="52" fill="#A97A44" stroke="#1B2430" stroke-width="2.5"/><rect x="148" y="-52" width="12" height="52" fill="#A97A44" stroke="#1B2430" stroke-width="2.5"/><rect x="-28" y="-72" width="56" height="7" rx="2" fill="#E3E8EF" stroke="#1B2430" stroke-width="2"/><rect x="-48" y="-52" width="196" height="40" fill="#B98A55" stroke="#1B2430" stroke-width="2.5"/></g>
     </svg>
     <div class="cap"><span class="chip" style="background:#1F5FBF"></span><b>Nhân viên điều phối</b><div class="note">Sơ mi xanh dương · ngồi máy tính</div></div>
   </div>

diff --git a/tools/model_xlct.py b/tools/model_xlct.py
@@ -27,10 +27,10 @@ CELLS = [
     ("Cũ – trên bảng model", "Tay khuất sau mặt bàn", sheet_desk("o1", OLD, 16), -40),
     ("Mới – trên bảng model", "Tay đặt lên bàn phím", sheet_desk("n1", TYPE, 0), -40),
     ("Cũ – trong video", "Tay sát bụng, thấp", video_desk("o2", OLD), -30),
-    ("Mới – trong video", "Tay nâng lên ngang ngực dưới", video_desk("n2", TYPE), -30),
+    ("Mới – trong video", "Tay nâng lên ngang ngực", video_desk("n2", TYPE), -30),
 ]
-TYPING = [("Gõ phím 1", {"armL": TYPE["armL"], "armR": (R[0], 90)}),
-          ("Gõ phím 2", {"armL": TYPE["armL"], "armR": (R[0], 112)})]
+TYPING = [("Gõ phím 1", {"armL": TYPE["armL"], "armR": (R[0], 110)}),
+          ("Gõ phím 2", {"armL": TYPE["armL"], "armR": (R[0], 132)})]
 
 
 def build():
@@ -64,7 +64,7 @@ h1 span{{color:{BLUE}}}
 <div class="sub">Tư thế gõ máy (TYPE) dùng chung cho XLCT / điều phối trong mọi video · bàn tay tròn giữ nguyên</div>
 {cells}
 <div class="strip"><h2>Động tác gõ phím <small>– tay phải nhấp lên xuống quanh tư thế mới</small></h2><div class="row">{typ}</div>
-<div class="note2">Vai: <b>armL (30, −100)</b> · <b>armR (−30, 100)</b><br>(cũ: 22, −70 / −22, 70)<br>Bàn tay nâng khoảng 10 px theo model (~15 px trên video 1080p), nằm trên mặt bàn, không còn sát bụng.</div></div>
+<div class="note2">Vai: <b>armL (40, −120)</b> · <b>armR (−40, 120)</b><br>(cũ: 22, −70 / −22, 70)<br>Bàn tay nâng khoảng 17 px theo model (~25 px trên video 1080p), ngang ngực, nằm trên mặt bàn, không còn sát bụng.</div></div>
 </body></html>'''
     p = os.path.join(OUT, "model-xlct.html")
     open(p, "w", encoding="utf-8").write(html)

diff --git a/tools/cxad_kit.py b/tools/cxad_kit.py
@@ -116,7 +116,7 @@ def label_js(fid, t):
 def type_js(fid, t0, t1):
     s, t, k = "", t0, 0
     while t < t1:
-        s += f'tl.to("#{fid}-foreR",{{rotation:{90 if k % 2 else 112},svgOrigin:"0 0",duration:0.18,ease:"sine.inOut"}},{t:.2f});\n'
+        s += f'tl.to("#{fid}-foreR",{{rotation:{110 if k % 2 else 132},svgOrigin:"0 0",duration:0.18,ease:"sine.inOut"}},{t:.2f});\n'
         t += 0.2; k += 1
     return s
 

diff --git a/tools/kit.py b/tools/kit.py
@@ -211,7 +211,7 @@ def folder_svg(col="#16478F"):
 
 MANAGER_HOLD = {"armL": (-8, -118)}  # pose for holding folder_svg() in the left hand
 # seated at the computer (XLCT / dieu phoi): hands raised onto the keyboard, above the desk top
-TYPE = {"armL": (30, -100), "armR": (-30, 100)}
+TYPE = {"armL": (40, -120), "armR": (-40, 120)}
 
 
 def pda_svg(fid, laser=False, reach=80):
